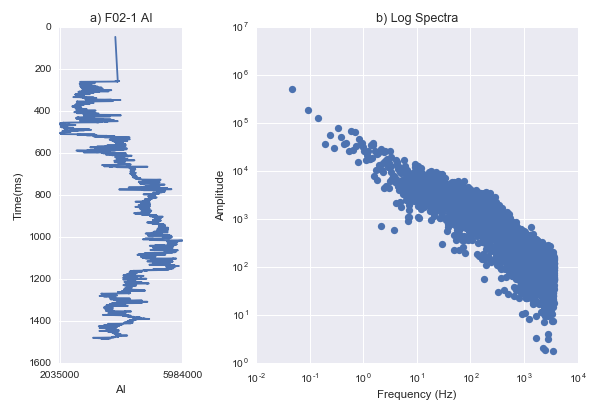
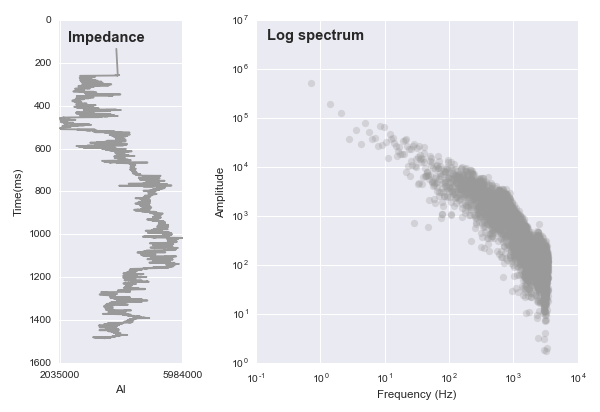
rev1_MB
explanation to comments and edits in comments.md
changed all figures

diff --git a/1710_Coloured_inversion/comments.md b/1710_Coloured_inversion/comments.md
@@ -10,29 +10,45 @@ Main things I did:
 
 - Minor spelling and grammar corrections. Nothing major. (I use 'spectrum' and 'spectrums' for the singular and plural, respectively. Maybe this is weird to some people, but I prefer it to the use of 'spectra' for both.)
 - Some alterations to the code snippets. This is mainly either PEP8 or because the columns are only about 50-55 characters wide, so we cannot have long lines. I also thought you might like `np.apply_over_axis()` instead of the generator expression for the convolution. I think it's faster too.
+MB: *Thank you for that!*
 - Changed some 'house style' things, eg layout, references, etc. Nothing major.
-- I made the subheads match the list of steps in the algorithm, including their numbers. 
+- I made the subheads match the list of steps in the algorithm, including their numbers.
 - I cut a few sentences that felt like 'details' to me. We can leave these details in the notebook in the GitHub repo &mdash; we often do this.
 
 I have some suggestions for you:
 
 - Please read through and check my edits!
-- Figure 1: Do you think it's worth adding the well? 
+- Figure 1: Do you think it's worth adding the well?
+MB: *Not sure, it's on the next figure.*
 - In `T_log = 1000 / depth_f021` I'm not sure what's happening. Have you thought about using the DT log to get velocity then using interpolation to switch the logs to regularly sampled time?
-- Figure 2: The TLE staff always remove references to (a) and (b) in the figure itself. I recommend changing the plot titles to "Impedance" and "Log spectrum". If you can, move them inside the frame of the plot, in the upper left (to save a bit of vertical space). They look good if a little larger and bold.
-- Figure 3: I don't think this plot needs a title; the caption explains.
-- Figure 3: (and throughout) I recommend using a different *shade* of colour for the regression line, because this one will be hard to see in greyscale. Perhaps lighter points and darker line makes most sense. Please use the same colours you choose for the same elements in every figure.
-- Figure 4: I wonder if it's worth boosting the amplitude of the seismic a bit, since it's arbitrary anyway? Just to make it a little closer to the others (but without clashing with it). Anything you can do to make the figure less tall will help with layout.
-- In the code block where you generate the operator, can you show where `gap` comes from? Also, it seems like `fftshift` is operating on a time-domain signal, is it not? So this might be better described as a time shift? Or maybe I got lost...
-- Figure 5: I don't think this is the difference spectrum, is it? 
-- Figure 5: As before, please either move the plot titles or put them inside the plot frames.
-- Figure 6: Nice figure... you could make it a little wider I think, maybe 25-50% wider. Also, can you put the colourbar inside the frame? Or, if that's too fiddly, put it on the right. Again, this will help with the layout.
-- QC step... "this fit was achieved with a manual fit"... not sure I follow. You mean because we chose the upper and lower tapers? Maybe we can say "there are some variables", and you went through some iterations to optimize them a bit?
+MB: *I used the DT log to convert to time using interpolation but did not resample it. Since I am approximating with a function later, it's not necessary I think. However, I did not change the name of the variable which makes it confusing. I also think the shortcut I was taking earlier (not in the snippet) was wrong and altered the resulting spectrum (did not change the end result...). I was working with constant time step in my previous attempts at CI...maybe this was a better idea. Anyway, I edited the snippet and the figures accordingly).*
 
-If you can add the 'full' Notebook to this repo, I'm happy to help with some of this, if I can. 
+- Figure 2: The TLE staff always remove references to (a) and (b) in the figure itself. I recommend changing the plot titles to "Impedance" and "Log spectrum". If you can, move them inside the frame of the plot, in the upper left (to save a bit of vertical space). They look good if a little larger and bold.
+MB: *Done*
+
+- Figure 3: I don't think this plot needs a title; the caption explains.
+MB: *Title removed*
+
+- Figure 3: (and throughout) I recommend using a different *shade* of colour for the regression line, because this one will be hard to see in greyscale. Perhaps lighter points and darker line makes most sense. Please use the same colours you choose for the same elements in every figure.
+MB: *Let me know if this color_palette works*
+- Figure 4: I wonder if it's worth boosting the amplitude of the seismic a bit, since it's arbitrary anyway? Just to make it a little closer to the others (but without clashing with it). Anything you can do to make the figure less tall will help with layout.
+MB: *I think you are right. This looks better with the boosted seismic amplitude*
+- In the code block where you generate the operator, can you show where `gap` comes from? MB: *Gap is just the substraction of the seismic_spectrum from the approximated log spectrum. I edited the snippet.* Also, it seems like `fftshift` is operating on a time-domain signal, is it not? So this might be better described as a time shift? Or maybe I got lost...
+MB: *Please check if this is clear (added in the text):"and shift the zero frequency component of the operator to the center of the spectrum". Since I am taking the imaginary part after, It was like a phase rotation. Maybe a bit of a shortcut to say that anyway...*
+- Figure 5: I don't think this is the difference spectrum, is it?
+MB: *Yes it is. With gap, I just substract 10 from 10000 (looks larger but, it is in log space). TBH it is still one part of the workflow that depends on wether you scale the seismic spectrum or not. I rescaled it for plotting purpose, and kept using it for the gap and the operator. The difference is now more obvious, but it has little impact on the end result.*
+- Figure 5: As before, please either move the plot titles or put them inside the plot frames.
+MB: *Done*
+- Figure 6: Nice figure... you could make it a little wider I think, maybe 25-50% wider. Also, can you put the colourbar inside the frame? Or, if that's too fiddly, put it on the right. Again, this will help with the layout.
+MB:*Edited, let me know if you need more changes*
+- QC step... "this fit was achieved with a manual fit"... not sure I follow. You mean because we chose the upper and lower tapers? Maybe we can say "there are some variables", and you went through some iterations to optimize them a bit?
+MB: *There are some things you can play with, the taper, the normalization, the number of traces to calculate your spectra. I guess that was just me saying, if I had to do that for production, I would minimize some kind of function base on different constraints on those variables. I will just remove that sentence. If you feel like saying something about that, I am on board with whatever you think is best*
+
+If you can add the 'full' Notebook to this repo, I'm happy to help with some of this, if I can.
+MB: *Still a lot of French and redundancy in this one. If it not necessary for now, let me clean it and I will supply one soon. I don't have time to do that before your deadline.*
 
 I understand you cannot get to this till Tuesday. If we can get these changes made by end of day on Wednesday, I think we're still in good shape.
 
-Thank you again for this brilliant contribution, Martin! I think people are really going to love it. 
+Thank you again for this brilliant contribution, Martin! I think people are really going to love it.
 
 Matt
